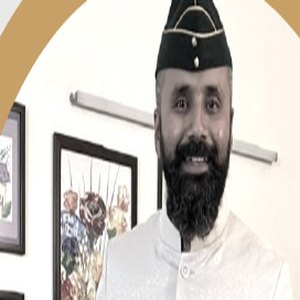
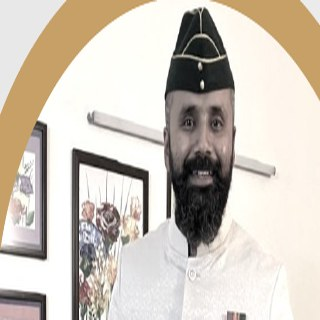
India map with glimmering pins (+WB, Odisha), Key Differentiators section, Life reel redesign, journey hover tooltips + mobile bus + fixed electrification label, testimonial faces, Sanjeev centered, Royal Enfield dealership, hero EV-video layer (graceful fallback)

diff --git a/index.html b/index.html
@@ -68,6 +68,10 @@
 
 <!-- ============ HERO ============ -->
 <section class="hero" id="top">
+  <video class="hero__video" id="heroVideo" autoplay muted loop playsinline preload="auto" aria-hidden="true">
+    <source src="assets/video/hero-ev.mp4" type="video/mp4" />
+  </video>
+  <div class="hero__video-tint" aria-hidden="true"></div>
   <div class="hero__bg" aria-hidden="true"><span class="blob blob--1"></span><span class="blob blob--2"></span><span class="blob blob--3"></span></div>
   <div class="hero__grid-lines" aria-hidden="true"></div>
   <div class="hero__road" aria-hidden="true" id="heroRoad">
@@ -151,7 +155,7 @@
       <span><i style="background:var(--navy-2)"></i>Delhi 168</span>
       <span><i style="background:var(--navy)"></i>Dolvi 61</span>
     </div>
-    <p class="fleet__note">Operated for <strong>Switch Mobility</strong> and <strong>JBM</strong>, plus a Tata Motors service station and two Royal Enfield retail outlets.</p>
+    <p class="fleet__note">Operated for <strong>Switch Mobility</strong> and <strong>JBM</strong>, plus a Tata Motors service station and a Royal Enfield dealership.</p>
   </div>
 </section>
 
@@ -175,7 +179,7 @@
       <!-- centre dashes -->
       <path d="M70,90 H900 C975,90 975,270 900,270 H100 C25,270 25,450 100,450 H910" fill="none" stroke="#fff" stroke-width="3" stroke-dasharray="11 15" opacity=".85"/>
       <!-- electrification marker -->
-      <g class="jarrow"><text x="250" y="438" text-anchor="middle">NEW VENTURE</text><text x="250" y="470" text-anchor="middle" class="jarrow__sub">ELECTRIFICATION &#8594;</text></g>
+      <g class="jarrow"><text x="265" y="404" text-anchor="middle">NEW VENTURE</text><text x="265" y="422" text-anchor="middle" class="jarrow__sub">ELECTRIFICATION</text><path d="M265,430 L265,442 M260,438 L265,443 L270,438" stroke="#13A05C" stroke-width="2" fill="none" stroke-linecap="round"/></g>
 
       <!-- NODES -->
       <g class="jnode"><title>Tata-authorised commercial vehicle service station opens.</title><circle cx="130" cy="90" r="17"/><text class="jyear" x="130" y="50">2006</text><text class="jlabel" x="130" y="68">Founded</text></g>
@@ -203,10 +207,12 @@
         <animateMotion id="jbusMotion" dur="9s" rotate="auto" fill="freeze" begin="indefinite" keyPoints="0;1" keyTimes="0;1" calcMode="linear"><mpath href="#jpath"/></animateMotion>
       </g>
     </svg>
+    <div class="jtip" id="jtip" aria-hidden="true"></div>
   </div>
 
   <!-- mobile compact timeline -->
   <ol class="jlist">
+    <span class="jlist__bus" id="jlistBus" aria-hidden="true"><svg viewBox="0 0 40 22" width="100%" height="100%"><rect x="1" y="1" width="38" height="20" rx="6" fill="#fff" stroke="#cdd0e6"/><rect x="1" y="1" width="10" height="20" rx="6" fill="#2E3192"/><rect x="14" y="5" width="6" height="6" rx="1" fill="#1b1f4d"/><rect x="23" y="5" width="6" height="6" rx="1" fill="#1b1f4d"/><rect x="1" y="16" width="38" height="3" fill="#CFA650"/></svg></span>
     <li><span>2006</span><b>Founded.</b> Tata-authorised CV service station opens.</li>
     <li><span>2008</span><b>WBTC on-site.</b> Servicing the West Bengal Transport Corporation.</li>
     <li><span>2013</span><b>Engine health.</b> Overhauls and preventive maintenance.</li>
@@ -323,6 +329,29 @@
   <div class="edge__quote reveal"><p>We do not outsource management. Our directors sit on-site until operations stabilise, building the SOPs, dashboards and incentives, then hand a running system to local managers.</p></div>
 </section>
 
+<!-- ============ KEY DIFFERENTIATORS ============ -->
+<section class="diff section" id="differentiators">
+  <div class="section__head reveal">
+    <span class="kicker">What sets us apart</span>
+    <h2 class="section__title">Key differentiators</h2>
+    <p class="section__lede">Two engines of advantage: operational rigour on the road, and a people model that keeps the best.</p>
+  </div>
+  <div class="diff__grid">
+    <div class="diff__group reveal">
+      <h3 class="diff__gtitle">Operational excellence</h3>
+      <div class="dcard"><span class="dcard__ic"><svg viewBox="0 0 24 24" fill="none" stroke="currentColor" stroke-width="1.6" stroke-linecap="round" stroke-linejoin="round"><path d="M14.7 6.3a3.5 3.5 0 0 0-4.9 4.9L3 18l3 3 6.8-6.8a3.5 3.5 0 0 0 4.9-4.9l-2.5 2.5-2.1-2.1z"/></svg></span><div><h4>Hands-on management</h4><p>Our directors run operations on-site until they stabilise, then hand over a working system.</p></div></div>
+      <div class="dcard"><span class="dcard__ic"><svg viewBox="0 0 24 24" fill="none" stroke="currentColor" stroke-width="1.6" stroke-linecap="round" stroke-linejoin="round"><circle cx="8.5" cy="8" r="2.6"/><circle cx="16" cy="9" r="2.1"/><path d="M3.5 19c0-3 2.2-4.8 5-4.8s5 1.8 5 4.8M14 19c0-2.2 1.4-3.8 3.8-3.8"/></svg></span><div><h4>Diversity &amp; inclusion</h4><p>India's first women charging operators. An inclusive workforce, by design.</p></div></div>
+      <div class="dcard"><span class="dcard__ic"><svg viewBox="0 0 24 24" fill="none" stroke="currentColor" stroke-width="1.6" stroke-linecap="round" stroke-linejoin="round"><path d="M12 3l7 3v5c0 4.5-3 7.6-7 9-4-1.4-7-4.5-7-9V6z"/><path d="M9 12l2 2 4-4"/></svg></span><div><h4>Damage control</h4><p>Proactive maintenance and driver training cut accidents from 3.05% to 0.70%.</p></div></div>
+    </div>
+    <div class="diff__group reveal">
+      <h3 class="diff__gtitle">HR excellence</h3>
+      <div class="dcard"><span class="dcard__ic"><svg viewBox="0 0 24 24" fill="none" stroke="currentColor" stroke-width="1.6" stroke-linecap="round" stroke-linejoin="round"><circle cx="12" cy="12" r="8.5"/><path d="M9.5 8h5M9.5 11h5M13.5 8c0 2.6-1.8 3.6-3.5 3.6l3.8 4.4"/></svg></span><div><h4>Prompt &amp; automated payments</h4><p>Salaries on time, every time. Automated, predictable and transparent.</p></div></div>
+      <div class="dcard"><span class="dcard__ic"><svg viewBox="0 0 24 24" fill="none" stroke="currentColor" stroke-width="1.6" stroke-linecap="round" stroke-linejoin="round"><path d="M2 12s3.5-6 10-6 10 6 10 6-3.5 6-10 6S2 12 2 12z"/><circle cx="12" cy="12" r="2.6"/></svg></span><div><h4>Transparency &amp; accountability</h4><p>Open dashboards and clear ownership at every depot, OEM to operator.</p></div></div>
+      <div class="dcard"><span class="dcard__ic"><svg viewBox="0 0 24 24" fill="none" stroke="currentColor" stroke-width="1.6" stroke-linecap="round" stroke-linejoin="round"><circle cx="12" cy="8.5" r="5"/><path d="M8.6 12.5L7 21l5-2.7L17 21l-1.6-8.5"/></svg></span><div><h4>Rewards &amp; recognition</h4><p>Employee of the Month and real incentives keep attrition below 5%.</p></div></div>
+    </div>
+  </div>
+</section>
+
 <!-- ============ TESTIMONIALS (carousel) ============ -->
 <section class="quotes section" id="clients">
   <div class="section__head reveal">
@@ -361,36 +390,36 @@
 <section class="network section section--dark" id="network">
   <div class="section__head reveal">
     <span class="kicker kicker--gold">Where we run</span>
-    <h2 class="section__title section__title--light">A four-state operating network</h2>
-    <p class="section__lede section__lede--light">449 electric buses live across four states, operated for the OEMs leading India's transition.</p>
+    <h2 class="section__title section__title--light">Our footprint across India</h2>
+    <p class="section__lede section__lede--light">449 electric buses live for the OEMs leading the transition, run from our Kolkata base.</p>
   </div>
-  <div class="route reveal" id="route">
-    <svg class="route__svg" id="routeSvg" viewBox="0 0 1000 120" preserveAspectRatio="none" aria-hidden="true">
-      <path id="routePath" d="M30,70 C160,10 250,120 380,60 S620,10 700,70 S870,120 970,55" fill="none" stroke="rgba(255,255,255,.18)" stroke-width="2" stroke-dasharray="6 8"/>
-      <path id="routePathLit" d="M30,70 C160,10 250,120 380,60 S620,10 700,70 S870,120 970,55" fill="none" stroke="url(#routeGrad)" stroke-width="3"/>
-      <defs><linearGradient id="routeGrad" x1="0" y1="0" x2="1" y2="0"><stop offset="0" stop-color="#1FBF6B"/><stop offset="1" stop-color="#CFA650"/></linearGradient></defs>
-      <g id="routeBus" class="route__bus"><rect x="-13" y="-8" width="26" height="16" rx="5" fill="#fff"/><rect x="-13" y="-8" width="26" height="5" rx="3" fill="#2E3192"/><rect x="-13" y="5" width="26" height="3" fill="#CFA650"/><circle cx="11" cy="0" r="1.6" fill="#ffd34d"/><animateMotion dur="8s" repeatCount="indefinite" rotate="auto"><mpath href="#routePath"/></animateMotion></g>
-    </svg>
-    <div class="stops">
-      <div class="stop">
-        <svg class="stop__sketch" viewBox="0 0 72 54" style="--len:600"><title>Vidhana Soudha, Bengaluru</title>
-          <path d="M6 48 H66"/><path d="M12 48 V30 H60 V48"/><path d="M20 48 V32 M30 48 V32 M42 48 V32 M52 48 V32"/><path d="M10 30 H62"/><path d="M30 30 V24 H42 V30"/><path d="M30 24 Q36 8 42 24"/><path d="M36 24 V11"/></svg>
-        <span class="stop__pin"></span><span class="stop__count" data-count="120">0</span><span class="stop__unit">e-buses</span><span class="stop__city">Bengaluru</span><span class="stop__meta">Karnataka · Switch</span></div>
-      <div class="stop">
-        <svg class="stop__sketch" viewBox="0 0 72 54" style="--len:600"><title>Gateway of India, Maharashtra</title>
-          <path d="M6 48 H66"/><path d="M14 48 V20 H58 V48"/><path d="M30 48 V34 Q36 24 42 34 V48"/><path d="M19 48 V40 Q22 35 25 40 V48 M47 48 V40 Q50 35 53 40 V48"/><path d="M12 20 H60"/><path d="M18 20 Q22 12 26 20 M46 20 Q50 12 54 20"/><path d="M32 20 V14 H40 V20 M33 14 Q36 8 39 14"/></svg>
-        <span class="stop__pin"></span><span class="stop__count" data-count="61">0</span><span class="stop__unit">e-buses</span><span class="stop__city">Dolvi</span><span class="stop__meta">Maharashtra · Switch</span></div>
-      <div class="stop">
-        <svg class="stop__sketch" viewBox="0 0 72 54" style="--len:600"><title>Kamakhya Temple, Guwahati</title>
-          <path d="M10 48 H62"/><path d="M20 48 V34 H52 V48"/><path d="M22 34 Q36 2 50 34"/><path d="M30 33 Q33 14 36 6 M42 33 Q39 14 36 6"/><path d="M36 6 V1"/><path d="M33 48 V40 Q36 36 39 40 V48"/></svg>
-        <span class="stop__pin"></span><span class="stop__count" data-count="100">0</span><span class="stop__unit">e-buses</span><span class="stop__city">Guwahati</span><span class="stop__meta">Assam · JBM Group</span></div>
-      <div class="stop">
-        <svg class="stop__sketch" viewBox="0 0 72 54" style="--len:600"><title>India Gate, Delhi</title>
-          <path d="M8 50 H64"/><path d="M22 50 V18 M50 50 V18"/><path d="M22 18 Q36 2 50 18"/><path d="M28 50 V22 Q36 12 44 22 V50"/><path d="M18 18 H54 M20 14 H52"/><path d="M16 50 V46 H56 V50"/></svg>
-        <span class="stop__pin"></span><span class="stop__count" data-count="168">0</span><span class="stop__unit">e-buses</span><span class="stop__city">Delhi</span><span class="stop__meta">JBM Group</span></div>
+  <div class="indiamap reveal" id="indiamap">
+    <div class="indiamap__map">
+      <svg viewBox="0 0 460 540" class="india" role="img" aria-label="Map of India showing Kauntia Motor Works locations">
+        <defs>
+          <linearGradient id="indiaFill" x1="0" y1="0" x2="1" y2="1"><stop offset="0" stop-color="#23264f"/><stop offset="1" stop-color="#191b40"/></linearGradient>
+        </defs>
+        <path class="india__shape" d="M168,44 C190,52 214,62 250,78 C276,90 300,96 314,104 C320,112 306,122 318,130 C338,124 372,128 396,140 C420,152 414,172 388,176 C360,172 340,180 340,196 C344,222 352,252 340,270 C342,300 330,332 318,354 C300,388 276,424 252,458 C242,478 234,500 226,500 C218,498 212,476 202,446 C186,400 174,360 166,322 C156,288 150,268 152,246 C134,244 112,250 98,238 C90,220 108,210 120,206 C108,196 98,200 100,184 C112,154 128,120 144,92 C152,72 158,52 168,44 Z"/>
+        <g class="pins" id="pins">
+          <g class="pin pin--ev" data-k="delhi" style="--d:0s"><circle class="pin__halo" cx="220" cy="150" r="5"/><circle class="pin__dot" cx="220" cy="150" r="5"/></g>
+          <g class="pin pin--ev" data-k="dolvi" style="--d:.4s"><circle class="pin__halo" cx="166" cy="300" r="5"/><circle class="pin__dot" cx="166" cy="300" r="5"/></g>
+          <g class="pin pin--ev" data-k="blr" style="--d:.8s"><circle class="pin__halo" cx="202" cy="404" r="5"/><circle class="pin__dot" cx="202" cy="404" r="5"/></g>
+          <g class="pin pin--ev" data-k="guwahati" style="--d:1.2s"><circle class="pin__halo" cx="360" cy="162" r="5"/><circle class="pin__dot" cx="360" cy="162" r="5"/></g>
+          <g class="pin pin--hq" data-k="wb" style="--d:1.6s"><circle class="pin__halo" cx="318" cy="250" r="5"/><circle class="pin__dot" cx="318" cy="250" r="5"/></g>
+          <g class="pin pin--hq" data-k="odisha" style="--d:2s"><circle class="pin__halo" cx="293" cy="296" r="5"/><circle class="pin__dot" cx="293" cy="296" r="5"/></g>
+        </g>
+      </svg>
     </div>
+    <ul class="locs" id="locs">
+      <li class="loc loc--ev" data-k="delhi"><span class="loc__n" data-count="168">0</span><span class="loc__b">Delhi</span><span class="loc__m">JBM Group · e-buses</span></li>
+      <li class="loc loc--ev" data-k="blr"><span class="loc__n" data-count="120">0</span><span class="loc__b">Bengaluru</span><span class="loc__m">Karnataka · Switch · e-buses</span></li>
+      <li class="loc loc--ev" data-k="guwahati"><span class="loc__n" data-count="100">0</span><span class="loc__b">Guwahati</span><span class="loc__m">Assam · JBM Group · e-buses</span></li>
+      <li class="loc loc--ev" data-k="dolvi"><span class="loc__n" data-count="61">0</span><span class="loc__b">Dolvi</span><span class="loc__m">Maharashtra · Switch · e-buses</span></li>
+      <li class="loc loc--hq" data-k="wb"><span class="loc__tag">HQ</span><span class="loc__b">West Bengal</span><span class="loc__m">Kolkata · Headquarters</span></li>
+      <li class="loc loc--hq" data-k="odisha"><span class="loc__tag">&#9679;</span><span class="loc__b">Odisha</span><span class="loc__m">Operations</span></li>
+    </ul>
   </div>
-  <p class="network__foot reveal">Two Royal Enfield sales &amp; service outlets. Partners: <strong>Switch Mobility</strong>, <strong>JBM</strong>, <strong>Tata Motors</strong>.</p>
+  <p class="network__foot reveal">A Royal Enfield dealership. Partners: <strong>Switch Mobility</strong>, <strong>JBM</strong>, <strong>Tata Motors</strong>.</p>
 </section>
 
 <!-- ============ LIFE AT KAUNTIA ============ -->
@@ -400,16 +429,21 @@
     <h2 class="section__title">Life at Kauntia</h2>
     <p class="section__lede">Uptime is built by people. Training, safety, diversity and a few celebrations along the way.</p>
   </div>
-  <div class="gallery reveal" id="gallery">
-    <figure class="gtile gtile--tall" data-cap="Breaking barriers: Maharashtra's first women charging operators"><img src="assets/img/life/charging.jpg" alt="Maharashtra's first women charging operators" loading="lazy"/><figcaption>First women charging operators</figcaption></figure>
-    <figure class="gtile gtile--wide" data-cap="Together We Rise: celebrating the women of Kauntia"><img src="assets/img/life/women.jpg" alt="Celebrating the women of Kauntia" loading="lazy"/><figcaption>Celebrating the women of Kauntia</figcaption></figure>
-    <figure class="gtile" data-cap="Excellence recognised: Employee of the Month"><img src="assets/img/life/eom.jpg" alt="Employee of the Month" loading="lazy"/><figcaption>Employee of the Month</figcaption></figure>
-    <figure class="gtile gtile--tall" data-cap="Safety first: daily breathalyzer checks before every shift"><img src="assets/img/life/safety.jpg" alt="Breathalyzer safety checks" loading="lazy"/><figcaption>Safety first: daily checks</figcaption></figure>
-    <figure class="gtile" data-cap="Spreading sweetness on Diwali"><img src="assets/img/life/diwali.jpg" alt="Diwali celebrations" loading="lazy"/><figcaption>Spreading sweetness on Diwali</figcaption></figure>
-    <figure class="gtile" data-cap="Hands-on technician training"><img src="assets/img/life/training1.jpg" alt="Technician training" loading="lazy"/><figcaption>Technician training</figcaption></figure>
-    <figure class="gtile" data-cap="Continuous driver training"><img src="assets/img/life/training2.jpg" alt="Driver training" loading="lazy"/><figcaption>Driver training</figcaption></figure>
-    <figure class="gtile" data-cap="Charging operations, around the clock"><img src="assets/img/life/charging2.jpg" alt="Charging operations" loading="lazy"/><figcaption>Charging, round the clock</figcaption></figure>
+  <div class="reel reveal" id="reel">
+    <div class="reel__row reel__row--l">
+      <figure class="frame" data-cap="Breaking barriers: Maharashtra's first women charging operators"><img src="assets/img/life/charging.jpg" alt="Maharashtra's first women charging operators" loading="lazy"/><figcaption>First women charging operators</figcaption></figure>
+      <figure class="frame" data-cap="Together We Rise: celebrating the women of Kauntia"><img src="assets/img/life/women.jpg" alt="Celebrating the women of Kauntia" loading="lazy"/><figcaption>Celebrating the women of Kauntia</figcaption></figure>
+      <figure class="frame" data-cap="Excellence recognised: Employee of the Month"><img src="assets/img/life/eom.jpg" alt="Employee of the Month" loading="lazy"/><figcaption>Employee of the Month</figcaption></figure>
+      <figure class="frame" data-cap="Safety first: daily breathalyzer checks before every shift"><img src="assets/img/life/safety.jpg" alt="Breathalyzer safety checks" loading="lazy"/><figcaption>Safety first: daily checks</figcaption></figure>
+    </div>
+    <div class="reel__row reel__row--r">
+      <figure class="frame" data-cap="Spreading sweetness on Diwali"><img src="assets/img/life/diwali.jpg" alt="Diwali celebrations" loading="lazy"/><figcaption>Spreading sweetness on Diwali</figcaption></figure>
+      <figure class="frame" data-cap="Hands-on technician training"><img src="assets/img/life/training1.jpg" alt="Technician training" loading="lazy"/><figcaption>Technician training</figcaption></figure>
+      <figure class="frame" data-cap="Continuous driver training"><img src="assets/img/life/training2.jpg" alt="Driver training" loading="lazy"/><figcaption>Driver training</figcaption></figure>
+      <figure class="frame" data-cap="Charging operations, around the clock"><img src="assets/img/life/charging2.jpg" alt="Charging operations" loading="lazy"/><figcaption>Charging, round the clock</figcaption></figure>
+    </div>
   </div>
+  <p class="reel__note reveal">Hover to pause &middot; click any moment to expand</p>
 </section>
 
 <div class="lightbox" id="lightbox" aria-hidden="true">

diff --git a/assets/css/style.css b/assets/css/style.css
@@ -109,7 +109,9 @@ img{display:block;max-width:100%}
 
 /* ============ HERO ============ */
 .hero{position:relative;min-height:100svh;display:flex;flex-direction:column;justify-content:center;align-items:center;text-align:center;overflow:hidden;background:var(--navy-deep);padding:150px 20px clamp(150px,22vh,250px)}
-.hero__bg{position:absolute;inset:0;overflow:hidden}
+.hero__video{position:absolute;inset:0;width:100%;height:100%;object-fit:cover;z-index:0;opacity:.24}
+.hero__video-tint{position:absolute;inset:0;z-index:1;background:linear-gradient(180deg,rgba(19,21,59,.62),rgba(12,13,40,.82))}
+.hero__bg{position:absolute;inset:0;overflow:hidden;z-index:1}
 .blob{position:absolute;border-radius:50%;filter:blur(70px);opacity:.55;animation:float 14s ease-in-out infinite}
 .blob--1{width:520px;height:520px;background:radial-gradient(circle,#3a40c4,transparent 70%);top:-12%;left:-6%}
 .blob--2{width:460px;height:460px;background:radial-gradient(circle,#15a05c,transparent 70%);top:8%;right:-8%;animation-delay:-4s;opacity:.4}
@@ -200,8 +202,14 @@ img{display:block;max-width:100%}
 
 /* ============ JOURNEY (serpentine map) ============ */
 .journey{background:linear-gradient(180deg,var(--paper),#f4f7f2);overflow:hidden}
-.jmap{max-width:1120px;margin:0 auto}
+.jmap{max-width:1120px;margin:0 auto;position:relative}
 .jmap__svg{width:100%;height:auto;display:block;overflow:visible}
+.jtip{position:absolute;z-index:20;background:var(--navy-ink);color:#fff;font-size:.84rem;line-height:1.42;font-weight:500;padding:10px 14px;border-radius:10px;max-width:240px;pointer-events:none;opacity:0;transform:translate(-50%,calc(-100% - 12px));transition:opacity .2s;box-shadow:0 14px 32px -10px rgba(0,0,0,.55)}
+.jtip.show{opacity:1}
+.jtip.below{transform:translate(-50%,12px)}
+.jtip::after{content:'';position:absolute;left:50%;bottom:-6px;transform:translateX(-50%) rotate(45deg);width:11px;height:11px;background:var(--navy-ink)}
+.jtip.below::after{bottom:auto;top:-6px}
+.jnode{cursor:pointer}
 .jnode circle{fill:#fff;stroke:var(--navy);stroke-width:5;transition:r .3s var(--pop)}
 .jnode--green circle{stroke:var(--green)}
 .jnode--pivot circle{stroke:var(--green);filter:drop-shadow(0 0 7px rgba(31,191,107,.55))}
@@ -291,6 +299,19 @@ img{display:block;max-width:100%}
 .edge__quote p{font-family:'Hanken Grotesk';font-weight:500;font-size:clamp(1.3rem,3vw,2rem);line-height:1.3;color:var(--ink);letter-spacing:-.02em}
 .edge__quote::before{content:'';position:absolute;top:-18px;left:50%;transform:translateX(-50%);width:48px;height:4px;border-radius:3px;background:var(--grad-gg)}
 
+/* ============ KEY DIFFERENTIATORS ============ */
+.diff{background:linear-gradient(180deg,#f6f8f4,var(--paper))}
+.diff__grid{max-width:var(--maxw);margin:0 auto;display:grid;grid-template-columns:1fr 1fr;gap:clamp(26px,4vw,54px)}
+.diff__group{display:flex;flex-direction:column;gap:15px}
+.diff__gtitle{font-family:'Hanken Grotesk',sans-serif;font-weight:800;font-size:.8rem;letter-spacing:.14em;text-transform:uppercase;color:var(--gold);margin-bottom:4px;padding-bottom:12px;border-bottom:1px solid var(--line)}
+.dcard{display:flex;gap:16px;align-items:flex-start;background:#fff;border:1px solid var(--line);border-radius:16px;padding:20px 22px;box-shadow:var(--shadow);transition:transform .35s var(--ease),box-shadow .35s}
+.dcard:hover{transform:translateY(-4px);box-shadow:0 26px 56px -26px rgba(15,16,48,.45)}
+.dcard__ic{flex:none;width:48px;height:48px;border-radius:13px;display:grid;place-items:center;background:rgba(207,166,80,.15);color:var(--navy);transition:background .3s,color .3s}
+.dcard__ic svg{width:24px;height:24px}
+.dcard:hover .dcard__ic{background:var(--grad-brand);color:#fff}
+.dcard h4{font-size:1.08rem;margin-bottom:4px}
+.dcard p{font-size:.92rem;color:var(--mist);line-height:1.5}
+
 /* ============ TESTIMONIALS CAROUSEL ============ */
 .carousel{position:relative;max-width:760px;margin:0 auto;display:flex;align-items:center;justify-content:center}
 .car__viewport{overflow:hidden;width:100%;border-radius:var(--r)}
@@ -303,7 +324,7 @@ img{display:block;max-width:100%}
 .qcard__mark{position:absolute;top:8px;left:26px;font-family:'Hanken Grotesk';font-size:5.5rem;line-height:1;background:var(--grad-gg);-webkit-background-clip:text;background-clip:text;color:transparent;opacity:.45}
 .qcard blockquote{position:relative;font-size:clamp(1.05rem,2vw,1.28rem);line-height:1.55;color:var(--ink);margin:30px 0 26px;font-weight:500}
 .qcard figcaption{display:flex;align-items:center;gap:14px;border-top:1px solid var(--line);padding-top:18px}
-.qcard__av{flex:none;width:54px;height:54px;border-radius:50%;object-fit:cover;border:2px solid var(--gold);box-shadow:0 4px 12px -4px rgba(15,16,48,.4)}
+.qcard__av{flex:none;width:56px;height:56px;border-radius:50%;object-fit:cover;object-position:center 28%;border:2px solid var(--gold);box-shadow:0 4px 12px -4px rgba(15,16,48,.4)}
 .qcard__who{font-size:.86rem;color:var(--mist);line-height:1.4}
 .qcard__who strong{display:block;color:var(--ink);font-size:1rem;font-family:'Hanken Grotesk';margin-bottom:2px}
 .car__nav{flex:none;width:50px;height:50px;border-radius:50%;border:1.5px solid var(--line);background:#fff;color:var(--navy);font-size:1.3rem;cursor:pointer;display:grid;place-items:center;transition:transform .3s var(--pop),background .3s,color .3s,box-shadow .3s;position:absolute;z-index:3;box-shadow:var(--shadow)}
@@ -342,6 +363,25 @@ img{display:block;max-width:100%}
 .stop__meta{font-size:.8rem;color:rgba(255,255,255,.55)}
 .network__foot{text-align:center;color:rgba(255,255,255,.7);margin-top:clamp(40px,5vw,64px);font-size:.98rem}
 .network__foot strong{color:#fff}
+/* India map */
+.indiamap{max-width:var(--maxw);margin:0 auto;display:grid;grid-template-columns:0.95fr 1.05fr;gap:clamp(24px,4vw,60px);align-items:center}
+.indiamap__map{display:flex;justify-content:center}
+.india{width:100%;max-width:400px;height:auto;overflow:visible;filter:drop-shadow(0 20px 40px rgba(0,0,0,.35))}
+.india__shape{fill:url(#indiaFill);stroke:rgba(255,255,255,.2);stroke-width:1.5}
+.pin__halo{animation:pinHalo 2.8s ease-out infinite;animation-delay:var(--d,0s)}
+.pin--ev .pin__halo,.pin--ev .pin__dot{fill:var(--green-bright)}
+.pin--hq .pin__halo,.pin--hq .pin__dot{fill:var(--gold)}
+.pin__dot{stroke:#0e1030;stroke-width:1.5;transition:r .3s var(--pop)}
+@keyframes pinHalo{0%{r:5;opacity:.55}75%{r:21;opacity:0}100%{r:21;opacity:0}}
+.pin.active .pin__dot{r:8.5}
+.locs{list-style:none;display:flex;flex-direction:column;gap:10px}
+.loc{display:grid;grid-template-columns:58px 1fr;grid-template-rows:auto auto;grid-template-areas:"n b" "n m";column-gap:16px;padding:13px 18px;border-radius:14px;background:rgba(255,255,255,.05);border:1px solid rgba(255,255,255,.09);transition:background .25s,border-color .25s,transform .25s}
+.loc:hover,.loc.active{background:rgba(255,255,255,.1);border-color:rgba(255,255,255,.22);transform:translateX(5px)}
+.loc__n{grid-area:n;font-family:'Hanken Grotesk',sans-serif;font-weight:800;font-size:1.9rem;color:#fff;font-variant-numeric:tabular-nums;align-self:center}
+.loc--ev .loc__n{color:var(--green-bright)}
+.loc__tag{grid-area:n;align-self:center;font-weight:800;color:var(--gold);font-size:1.2rem}
+.loc__b{grid-area:b;font-family:'Hanken Grotesk',sans-serif;font-weight:700;color:#fff;font-size:1.06rem;align-self:end}
+.loc__m{grid-area:m;font-size:.82rem;color:rgba(255,255,255,.6);align-self:start}
 
 /* ============ LEADERSHIP SHOWCASE ============ */
 .showcase{max-width:var(--maxw);margin:0 auto}
@@ -372,6 +412,9 @@ img{display:block;max-width:100%}
 
 /* ============ TEAM (3-up) ============ */
 .team{max-width:var(--maxw);margin:0 auto;display:grid;grid-template-columns:repeat(3,1fr);gap:clamp(20px,2.6vw,30px)}
+.team .tcard:nth-child(1){order:2}/* Sanjeev to centre */
+.team .tcard:nth-child(2){order:1}
+.team .tcard:nth-child(3){order:3}
 .tcard{background:#fff;border:1px solid var(--line);border-radius:var(--r);overflow:hidden;box-shadow:var(--shadow);transition:transform .4s var(--ease),box-shadow .4s;display:flex;flex-direction:column}
 .tcard:hover{transform:translateY(-7px);box-shadow:0 30px 64px -26px rgba(15,16,48,.5)}
 .tcard__photo{position:relative;aspect-ratio:1;overflow:hidden;background:var(--paper-2)}
@@ -387,18 +430,23 @@ img{display:block;max-width:100%}
 
 /* ============ LIFE AT KAUNTIA ============ */
 .life{background:linear-gradient(180deg,var(--paper-2),var(--paper))}
-.gallery{max-width:var(--maxw);margin:0 auto;display:grid;grid-template-columns:repeat(4,1fr);grid-auto-rows:150px;gap:14px;grid-auto-flow:dense}
-.gtile{position:relative;margin:0;border-radius:16px;overflow:hidden;cursor:pointer;box-shadow:var(--shadow);background:var(--paper-2)}
-.gtile--tall{grid-row:span 2}
-.gtile--wide{grid-column:span 2}
-.gtile img{width:100%;height:100%;object-fit:cover;transition:transform .6s var(--ease)}
-.gtile::after{content:'';position:absolute;inset:0;background:linear-gradient(180deg,transparent 45%,rgba(13,16,48,.78));opacity:.85;transition:opacity .35s}
-.gtile figcaption{position:absolute;left:16px;right:16px;bottom:14px;z-index:2;color:#fff;font-weight:600;font-size:.92rem;line-height:1.3;transform:translateY(4px);transition:transform .35s var(--ease);text-shadow:0 1px 8px rgba(0,0,0,.5)}
-.gtile:hover img{transform:scale(1.06)}
-.gtile:hover::after{opacity:1}
-.gtile:hover figcaption{transform:none}
-.gtile::before{content:'\2197';position:absolute;top:12px;right:14px;z-index:2;color:#fff;font-size:1.1rem;font-weight:700;opacity:0;transform:scale(.6);transition:.3s var(--pop)}
-.gtile:hover::before{opacity:.9;transform:none}
+.reel{display:flex;flex-direction:column;gap:16px;-webkit-mask:linear-gradient(90deg,transparent,#000 4%,#000 96%,transparent);mask:linear-gradient(90deg,transparent,#000 4%,#000 96%,transparent)}
+.reel__row{display:flex;gap:16px;width:max-content;will-change:transform}
+.reel__row--l{animation:reelL 50s linear infinite}
+.reel__row--r{animation:reelR 58s linear infinite}
+.reel:hover .reel__row{animation-play-state:paused}
+@keyframes reelL{from{transform:translateX(0)}to{transform:translateX(-50%)}}
+@keyframes reelR{from{transform:translateX(-50%)}to{transform:translateX(0)}}
+.frame{position:relative;height:230px;flex:none;border-radius:16px;overflow:hidden;cursor:pointer;box-shadow:var(--shadow);background:var(--paper-2)}
+.frame img{height:230px;width:auto;display:block;transition:transform .55s var(--ease)}
+.frame:hover img{transform:scale(1.06)}
+.frame::after{content:'';position:absolute;inset:0;background:linear-gradient(180deg,transparent 48%,rgba(13,16,48,.82));opacity:0;transition:opacity .35s}
+.frame:hover::after{opacity:1}
+.frame figcaption{position:absolute;left:16px;right:16px;bottom:14px;z-index:2;color:#fff;font-weight:600;font-size:.94rem;line-height:1.3;opacity:0;transform:translateY(8px);transition:opacity .35s,transform .35s var(--ease);text-shadow:0 1px 8px rgba(0,0,0,.55)}
+.frame:hover figcaption{opacity:1;transform:none}
+.frame::before{content:'\2197';position:absolute;top:12px;right:14px;z-index:2;color:#fff;font-size:1.05rem;font-weight:700;opacity:0;transform:scale(.6);transition:.3s var(--pop)}
+.frame:hover::before{opacity:.92;transform:none}
+.reel__note{text-align:center;color:var(--mist-2);font-size:.82rem;margin-top:22px;letter-spacing:.02em}
 /* lightbox */
 .lightbox{position:fixed;inset:0;z-index:9500;background:rgba(8,9,28,.92);backdrop-filter:blur(8px);display:flex;align-items:center;justify-content:center;padding:30px;opacity:0;pointer-events:none;transition:opacity .35s}
 .lightbox.open{opacity:1;pointer-events:auto}
@@ -465,6 +513,8 @@ img{display:block;max-width:100%}
 .jlist span{display:inline-block;font-family:'Fraunces',serif;font-weight:600;color:var(--navy);font-size:1.15rem;margin-right:8px}
 .jlist--green span{color:var(--green)}
 .jlist b{color:var(--ink)}
+.jlist__bus{display:none;position:absolute;left:-13px;width:26px;z-index:3;filter:drop-shadow(0 4px 6px rgba(15,16,48,.4));animation:jdrive 7s linear infinite}
+@keyframes jdrive{0%{top:-2px}100%{top:calc(100% - 16px)}}
 
 /* ============ responsive ============ */
 @media(max-width:980px){
@@ -482,12 +532,16 @@ img{display:block;max-width:100%}
   .nav.menu-open .nav__links a{padding:13px 28px;color:var(--navy)}
   .jmap{display:none}
   .jlist{display:block}
+  .jlist__bus{display:block}
   .team{grid-template-columns:1fr;max-width:400px;margin:0 auto}
   .gallery{grid-template-columns:repeat(2,1fr);grid-auto-rows:130px}
   .opp__grid{grid-template-columns:1fr}
   .opp__bigstats{grid-template-columns:1fr;gap:32px}
   .rings{grid-template-columns:1fr 1fr;gap:38px 20px}
   .opp__policy{grid-template-columns:1fr}
+  .indiamap{grid-template-columns:1fr;gap:24px}
+  .india{max-width:300px}
+  .diff__grid{grid-template-columns:1fr;gap:30px}
   .route__svg{display:none}
   .stops{flex-direction:column;gap:8px}
   .stop{flex-direction:row;align-items:center;gap:16px;text-align:left;min-width:0;padding:14px 0;border-bottom:1px solid rgba(255,255,255,.08)}
@@ -504,6 +558,7 @@ img{display:block;max-width:100%}
   .ms[data-side="l"] .ms__dot,.ms[data-side="r"] .ms__dot{left:-54px;right:auto}
   .qcard{padding:30px 24px 26px}
   .car__nav--prev{left:-6px}.car__nav--next{right:-6px}
+  .frame,.frame img{height:172px}
   .fleet__top{flex-direction:column;text-align:center}
   .fleet__grow{border-left:0;border-top:2px solid var(--line);padding-left:0;padding-top:18px;text-align:center}
   .fleet__count{flex-direction:column;gap:6px;text-align:center}

diff --git a/assets/js/main.js b/assets/js/main.js
@@ -225,6 +225,28 @@
     io.observe(jmap);
   })();
 
+  /* ---------- journey node hover tooltips (content on hover) ---------- */
+  (function jtip() {
+    var tip = $("#jtip"), jmap = $("#jmap");
+    if (!tip || !jmap) return;
+    $$(".jnode").forEach(function (node) {
+      var titleEl = node.querySelector("title");
+      var desc = titleEl ? titleEl.textContent : "";
+      function place() {
+        var nb = node.getBoundingClientRect(), mb = jmap.getBoundingClientRect();
+        var cx = nb.left + nb.width / 2 - mb.left;
+        var below = (nb.top - mb.top) < mb.height * 0.42;
+        tip.textContent = desc;
+        tip.style.left = cx + "px";
+        tip.style.top = (below ? (nb.bottom - mb.top) : (nb.top - mb.top)) + "px";
+        tip.classList.toggle("below", below);
+        tip.classList.add("show");
+      }
+      node.addEventListener("mouseenter", place);
+      node.addEventListener("mouseleave", function () { tip.classList.remove("show"); });
+    });
+  })();
+
   /* ---------- (legacy vertical road; no-op if absent) ---------- */
   var roadBus = $("#roadBus"), road = $("#road"), roadFill = $("#roadFill");
   var roadLine = road ? road.querySelector(".road__line") : null;
@@ -296,7 +318,23 @@
     tabs.forEach(function (t, i) { t.addEventListener("click", function () { select(i); }); });
   })();
 
-  /* ---------- Life gallery lightbox ---------- */
+  /* ---------- India map: sync pin <-> location list on hover ---------- */
+  (function indiamap() {
+    function link(a, b) {
+      a.addEventListener("mouseenter", function () { a.classList.add("active"); if (b) b.classList.add("active"); });
+      a.addEventListener("mouseleave", function () { a.classList.remove("active"); if (b) b.classList.remove("active"); });
+    }
+    $$(".loc").forEach(function (li) { link(li, document.querySelector('.pin[data-k="' + li.dataset.k + '"]')); });
+    $$(".pin").forEach(function (pin) { link(pin, document.querySelector('.loc[data-k="' + pin.dataset.k + '"]')); });
+  })();
+
+  /* ---------- Life reel: repeat frames for a seamless loop, then wire lightbox ----------
+     (fixed 6x repeat = two identical 3x halves, so the -50% keyframe loops with no gap;
+      avoids measuring image widths, which are 0 before load) */
+  $$(".reel__row").forEach(function (row) {
+    var base = row.innerHTML;
+    row.innerHTML = base + base + base + base + base + base;
+  });
   (function lightbox() {
     var lb = $("#lightbox"), img = $("#lbImg"), cap = $("#lbCap"), closeBtn = $("#lbClose");
     if (!lb) return;
@@ -306,7 +344,7 @@
       lb.classList.add("open"); lb.setAttribute("aria-hidden", "false"); document.body.style.overflow = "hidden";
     }
     function hide() { lb.classList.remove("open"); lb.setAttribute("aria-hidden", "true"); document.body.style.overflow = ""; }
-    $$(".gtile").forEach(function (t) {
+    $$(".frame").forEach(function (t) {
       t.addEventListener("click", function () { show(t); });
     });
     closeBtn.addEventListener("click", hide);